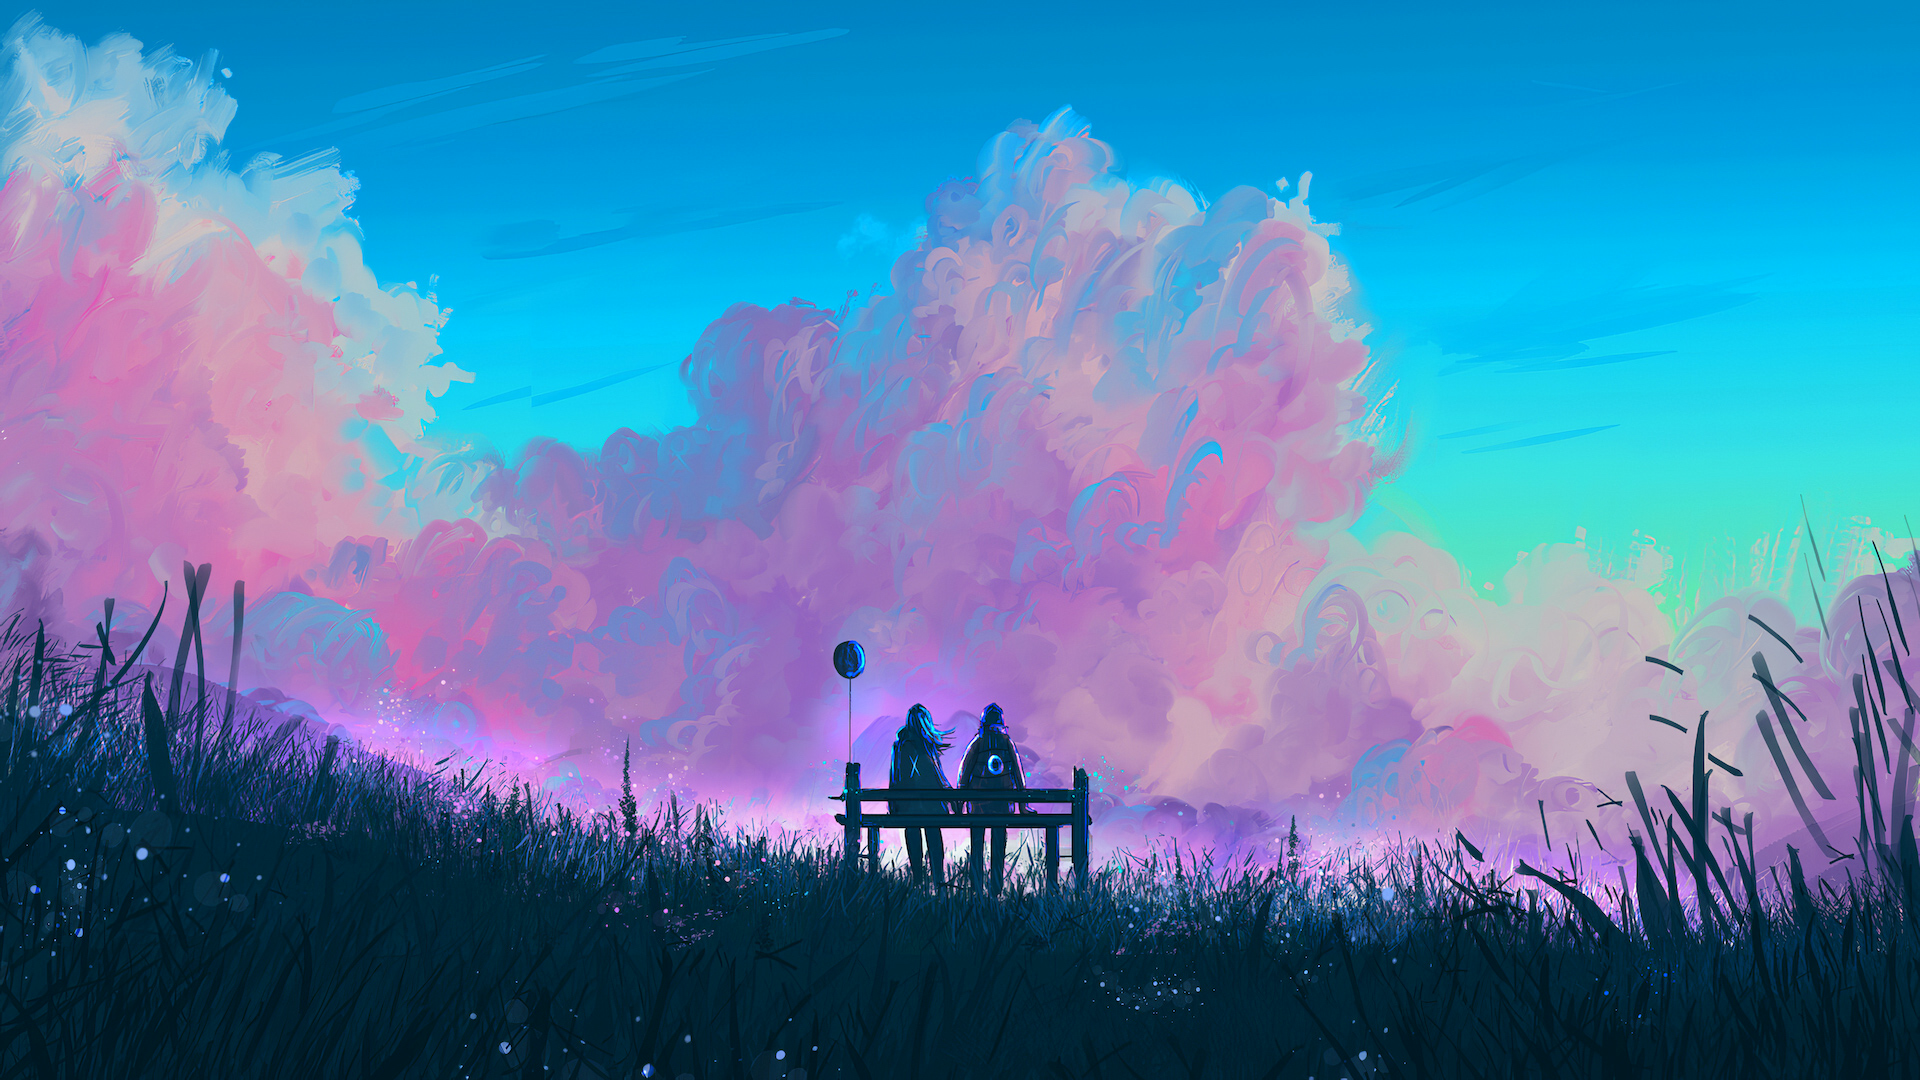
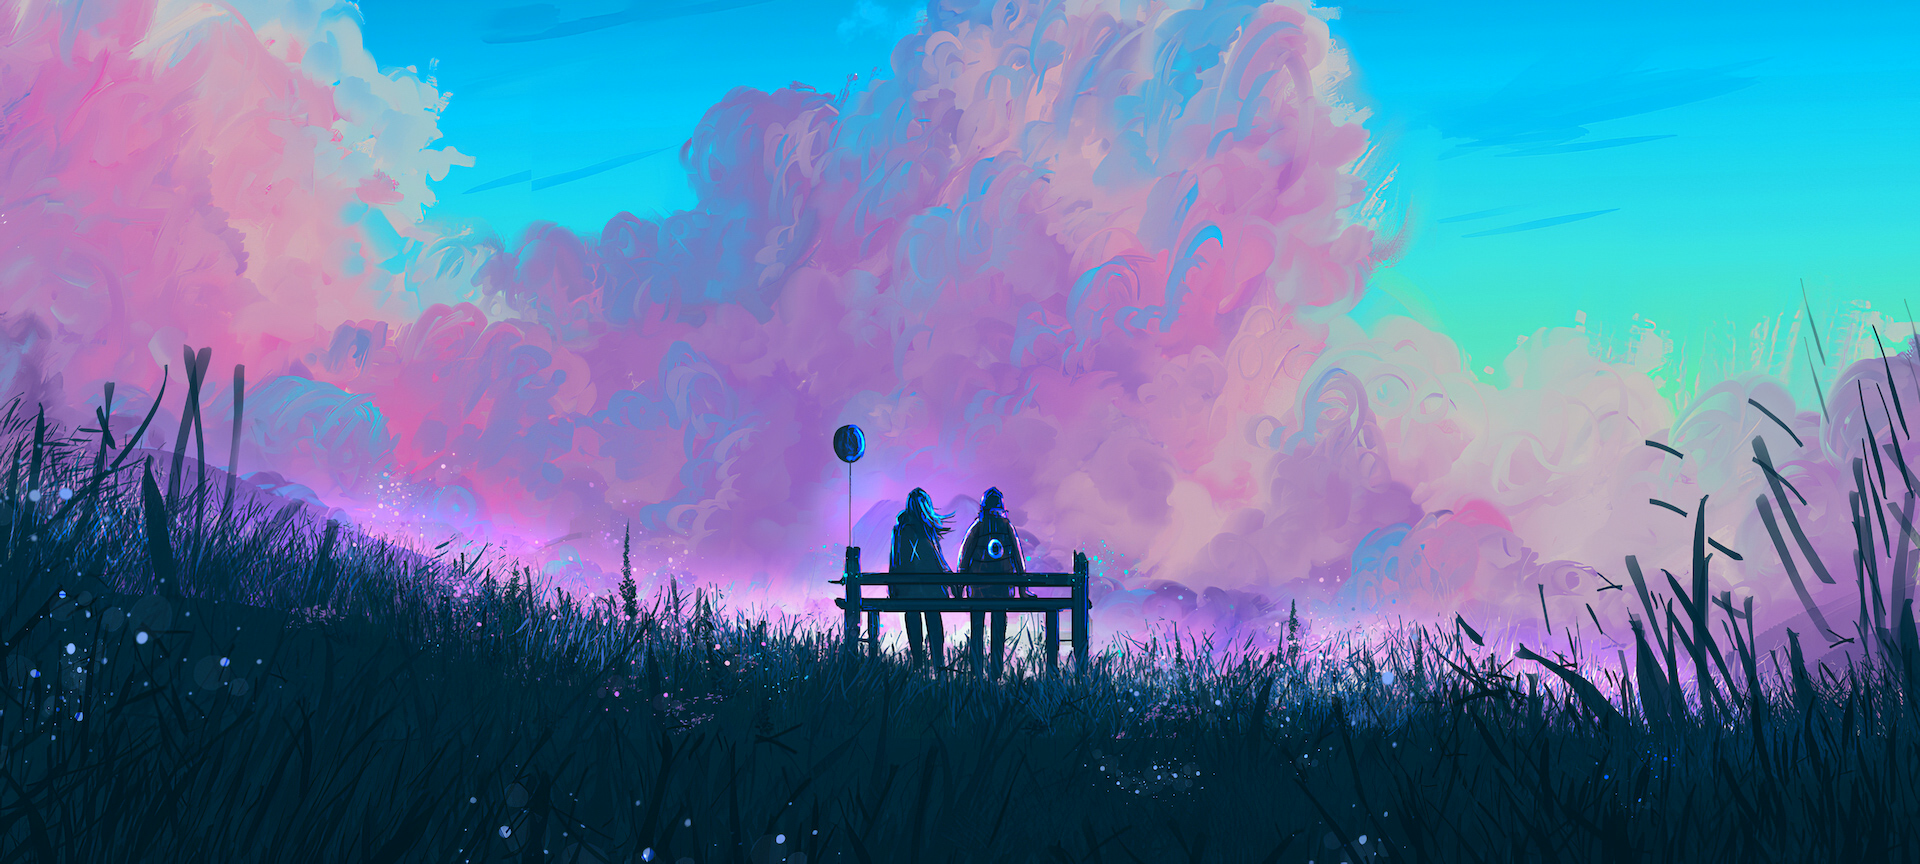
Site updated: 2021-04-25 16:04:56

diff --git a/about/index.html b/about/index.html
@@ -156,7 +156,7 @@
 </nav>
 
     <div class="banner" id="banner" parallax=true
-         style="background: url('/img/bench1.png') no-repeat center center;
+         style="background: url('/img/bench.png') no-repeat center center;
            background-size: cover;">
       <div class="full-bg-img">
         <div class="mask flex-center" style="background-color: rgba(0, 0, 0, 0.3)">

diff --git a/index.html b/index.html
@@ -142,7 +142,7 @@
 </nav>
 
     <div class="banner" id="banner" parallax=true
-         style="background: url('/img/beach.jpg') no-repeat center center;
+         style="background: url('/img/beach1.jpg') no-repeat center center;
            background-size: cover;">
       <div class="full-bg-img">
         <div class="mask flex-center" style="background-color: rgba(0, 0, 0, 0.3)">
